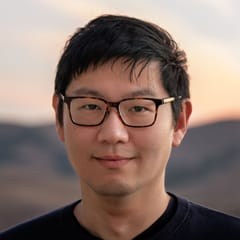
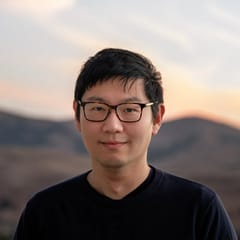
Switch to Geist, redraw the monogram, and recrop the headshot
- Replace Hanken Grotesk with Geist (upright and italic), pinned from the
  same google/fonts commit
- Redraw the MZ icon in Geist, smaller (42% of the tile) with the coral
  rule as wide as the letters
- Recrop the portrait and vCard photo from the LinkedIn headshot at full
  frame

diff --git a/src/styles/base.css b/src/styles/base.css
@@ -1,6 +1,6 @@
 /* Shared by every page. Colors come from theme/tokens.yaml as custom properties. */
 :root {
-  --sans: 'Hanken Grotesk', system-ui, -apple-system, 'Segoe UI', sans-serif;
+  --sans: 'Geist', system-ui, -apple-system, 'Segoe UI', sans-serif;
   --ja: 'Shippori Mincho', 'Noto Serif JP', serif;
   --zh: 'Noto Sans SC', 'PingFang SC', 'Microsoft YaHei', sans-serif;
   --ruby: 'Zen Kaku Gothic New', 'Noto Sans JP', sans-serif;

diff --git a/NOTES.md b/NOTES.md
@@ -71,7 +71,7 @@ Status and to-dos for mervinzhao.com. Last updated 2026-10-21.
 ## Open: build
 
 - [ ] **CV PDF (Typst)** from `cv.yaml`: full detail, all publications and patents. The private build adds the private overlay. Once `cv.pdf` exists, the CV buttons appear automatically.
-- [x] App icon: now an MZ monogram outlined from Hanken Grotesk (`scripts/lib/icons.mjs`), also the site favicon. The installed app is named "Card" (full name "Mervin Zhao · Card", set in `cv.yaml` under `site.card_app`). Safe to install on a phone.
+- [x] App icon: now an MZ monogram outlined from Geist (`scripts/lib/icons.mjs`), also the site favicon. The installed app is named "Card" (full name "Mervin Zhao · Card", set in `cv.yaml` under `site.card_app`). Safe to install on a phone.
 - [ ] Seal (hero only now): find the original seal file (on the desktop) and redo it at full resolution.
 
 ## Open: email and testing
